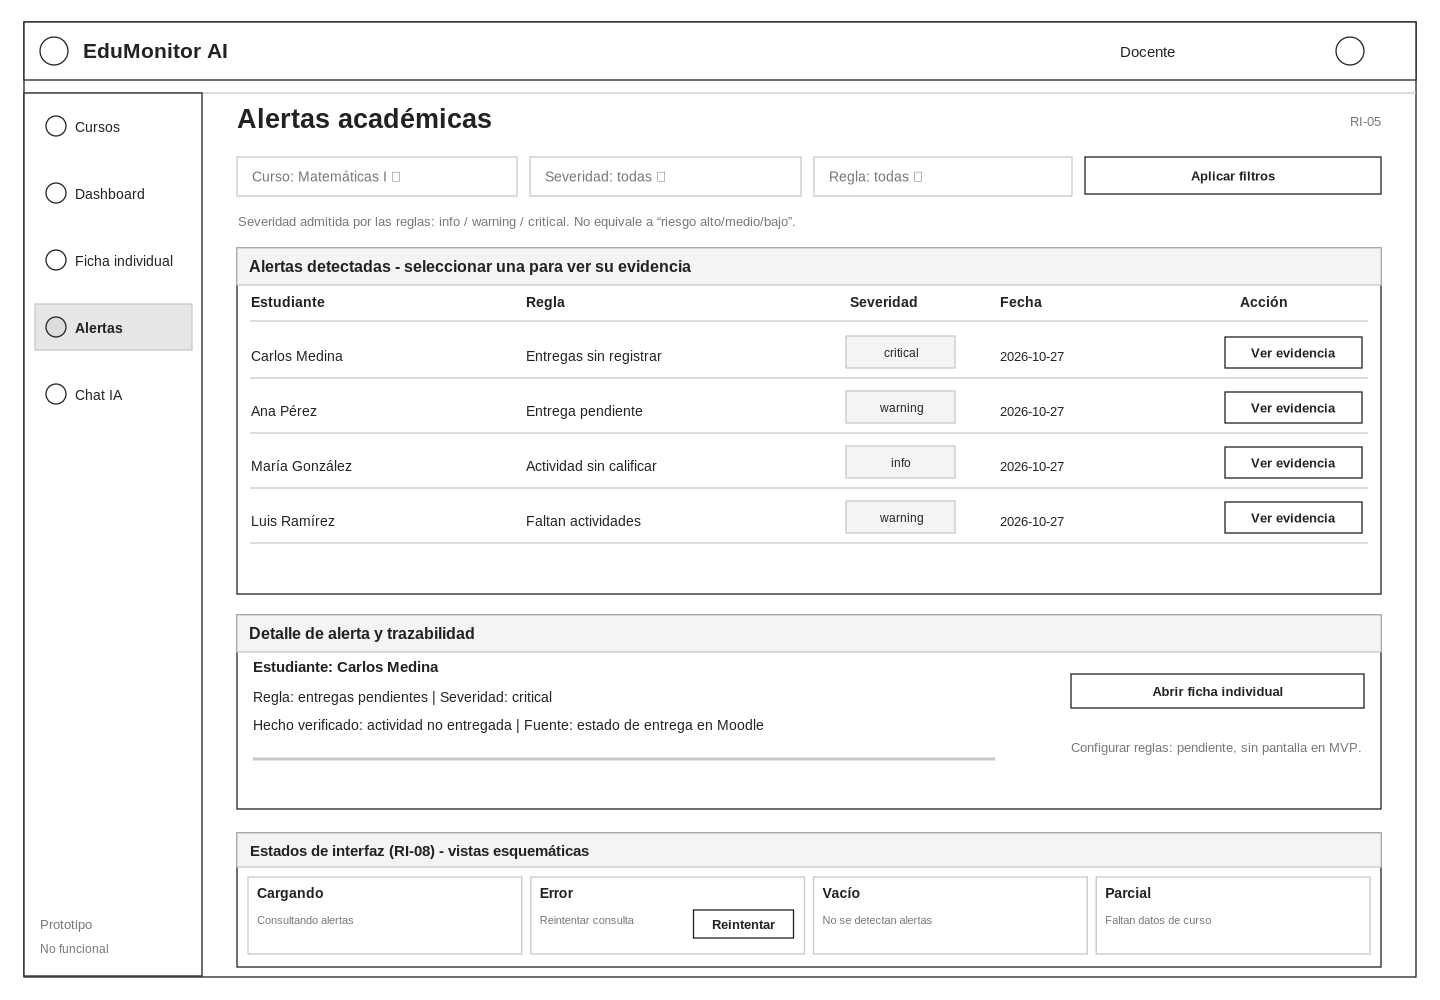
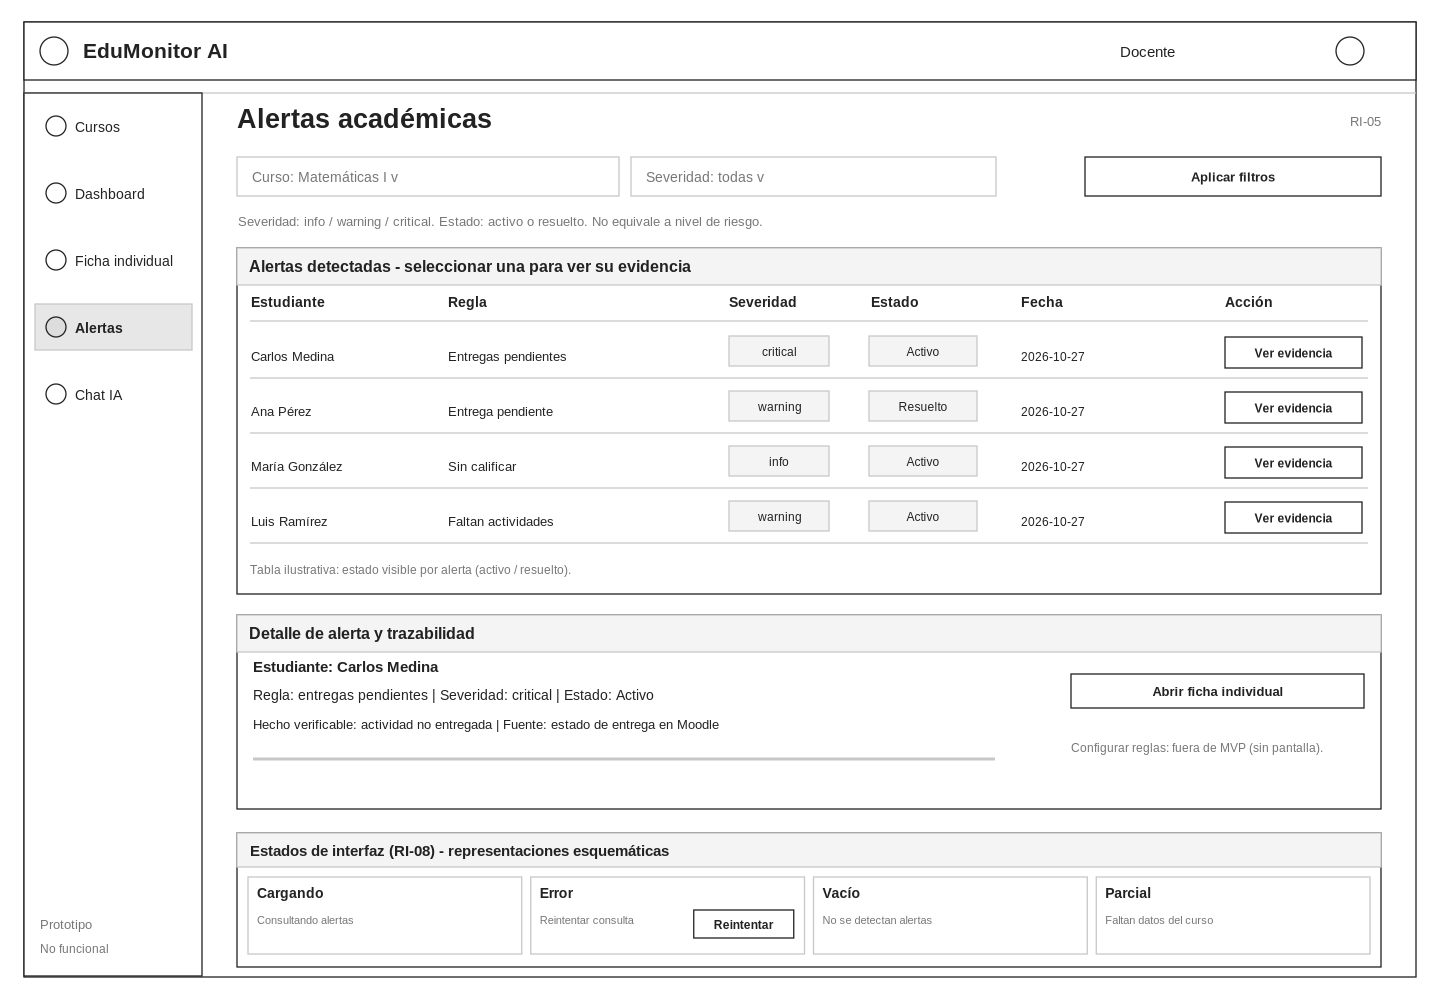
S1-13: ajusta filtro y estado de alertas

diff --git a/docs/wireframes/README.md b/docs/wireframes/README.md
@@ -3,7 +3,7 @@
 **Tarea:** S1-13
 **Sprint:** 1
 **Responsable:** Benjamín (@99benjaminb)
-**Estado:** propuesta corregida, pendiente de nueva revisión
+**Estado:** propuesta corregida, pendiente de revisión final
 
 ## 1. Objetivo y alcance
 
@@ -50,7 +50,7 @@ Muestra calificaciones por actividad, **estado de entrega** y **estado de finali
 
 ![Alertas](05-alertas.png)
 
-Permite filtrar y consultar alertas por curso, regla y **severidad** (`info`, `warning`, `critical`), con panel de evidencia y trazabilidad de la información usada. No se dibuja un editor de reglas: **«Configurar reglas» está pendiente y no cuenta con pantalla ni endpoint en el MVP**.
+Permite consultar alertas por curso y filtrar por **severidad** (`info`, `warning`, `critical`), con panel de evidencia y trazabilidad de la información usada. El listado incorpora un **estado visible por alerta (Activo o Resuelto)**, independiente de la severidad. **No se ofrece filtro por regla**, porque no existe el parámetro `ruleCode` en el contrato de consulta de alertas del MVP. La regla puede mostrarse como información de cada alerta, pero no se presenta como filtro. No se dibuja un editor de reglas: **«Configurar reglas» está pendiente y no cuenta con pantalla ni endpoint en el MVP**.
 
 ### 2.6 Chat con el agente (RI-06)
 
@@ -73,7 +73,7 @@ La respuesta se estructura en **Hechos**, **Inferencias** y **Recomendaciones**,
 - Chat: foros, registros de acceso, contenido de curso como fuentes; preguntas sugeridas basadas en participación; historial persistente de consultas.
 - Login: recuperación de contraseña («¿Olvidaste tu contraseña?»).
 - Cursos: botón de sincronización global.
-- Alertas: control funcional «Configurar reglas» (pendiente de diseño y contrato).
+- Alertas: filtro por regla (`ruleCode`) y control funcional «Configurar reglas» (pendiente de diseño y contrato).
 
 ## 5. Estados de interfaz — RI-08
 
@@ -89,6 +89,7 @@ Las imágenes `.png` son los entregables de visualización en GitHub. Los archiv
 - [x] Se corrigió la correspondencia funcional señalada en la revisión de PR #19.
 - [x] Se completó la documentación y la trazabilidad RI-01 a RI-06 y RI-08.
 - [x] Se prepararon archivos PNG optimizados y fuentes SVG editables.
+- [x] Se retiró el filtro de regla y se incorporó el estado de alerta en RI-05.
 - [ ] Revisión de las correcciones por el equipo.
 - [ ] Aceptación del Product Owner cuando corresponda.
 - [ ] Integración en `develop` después de las aprobaciones.
